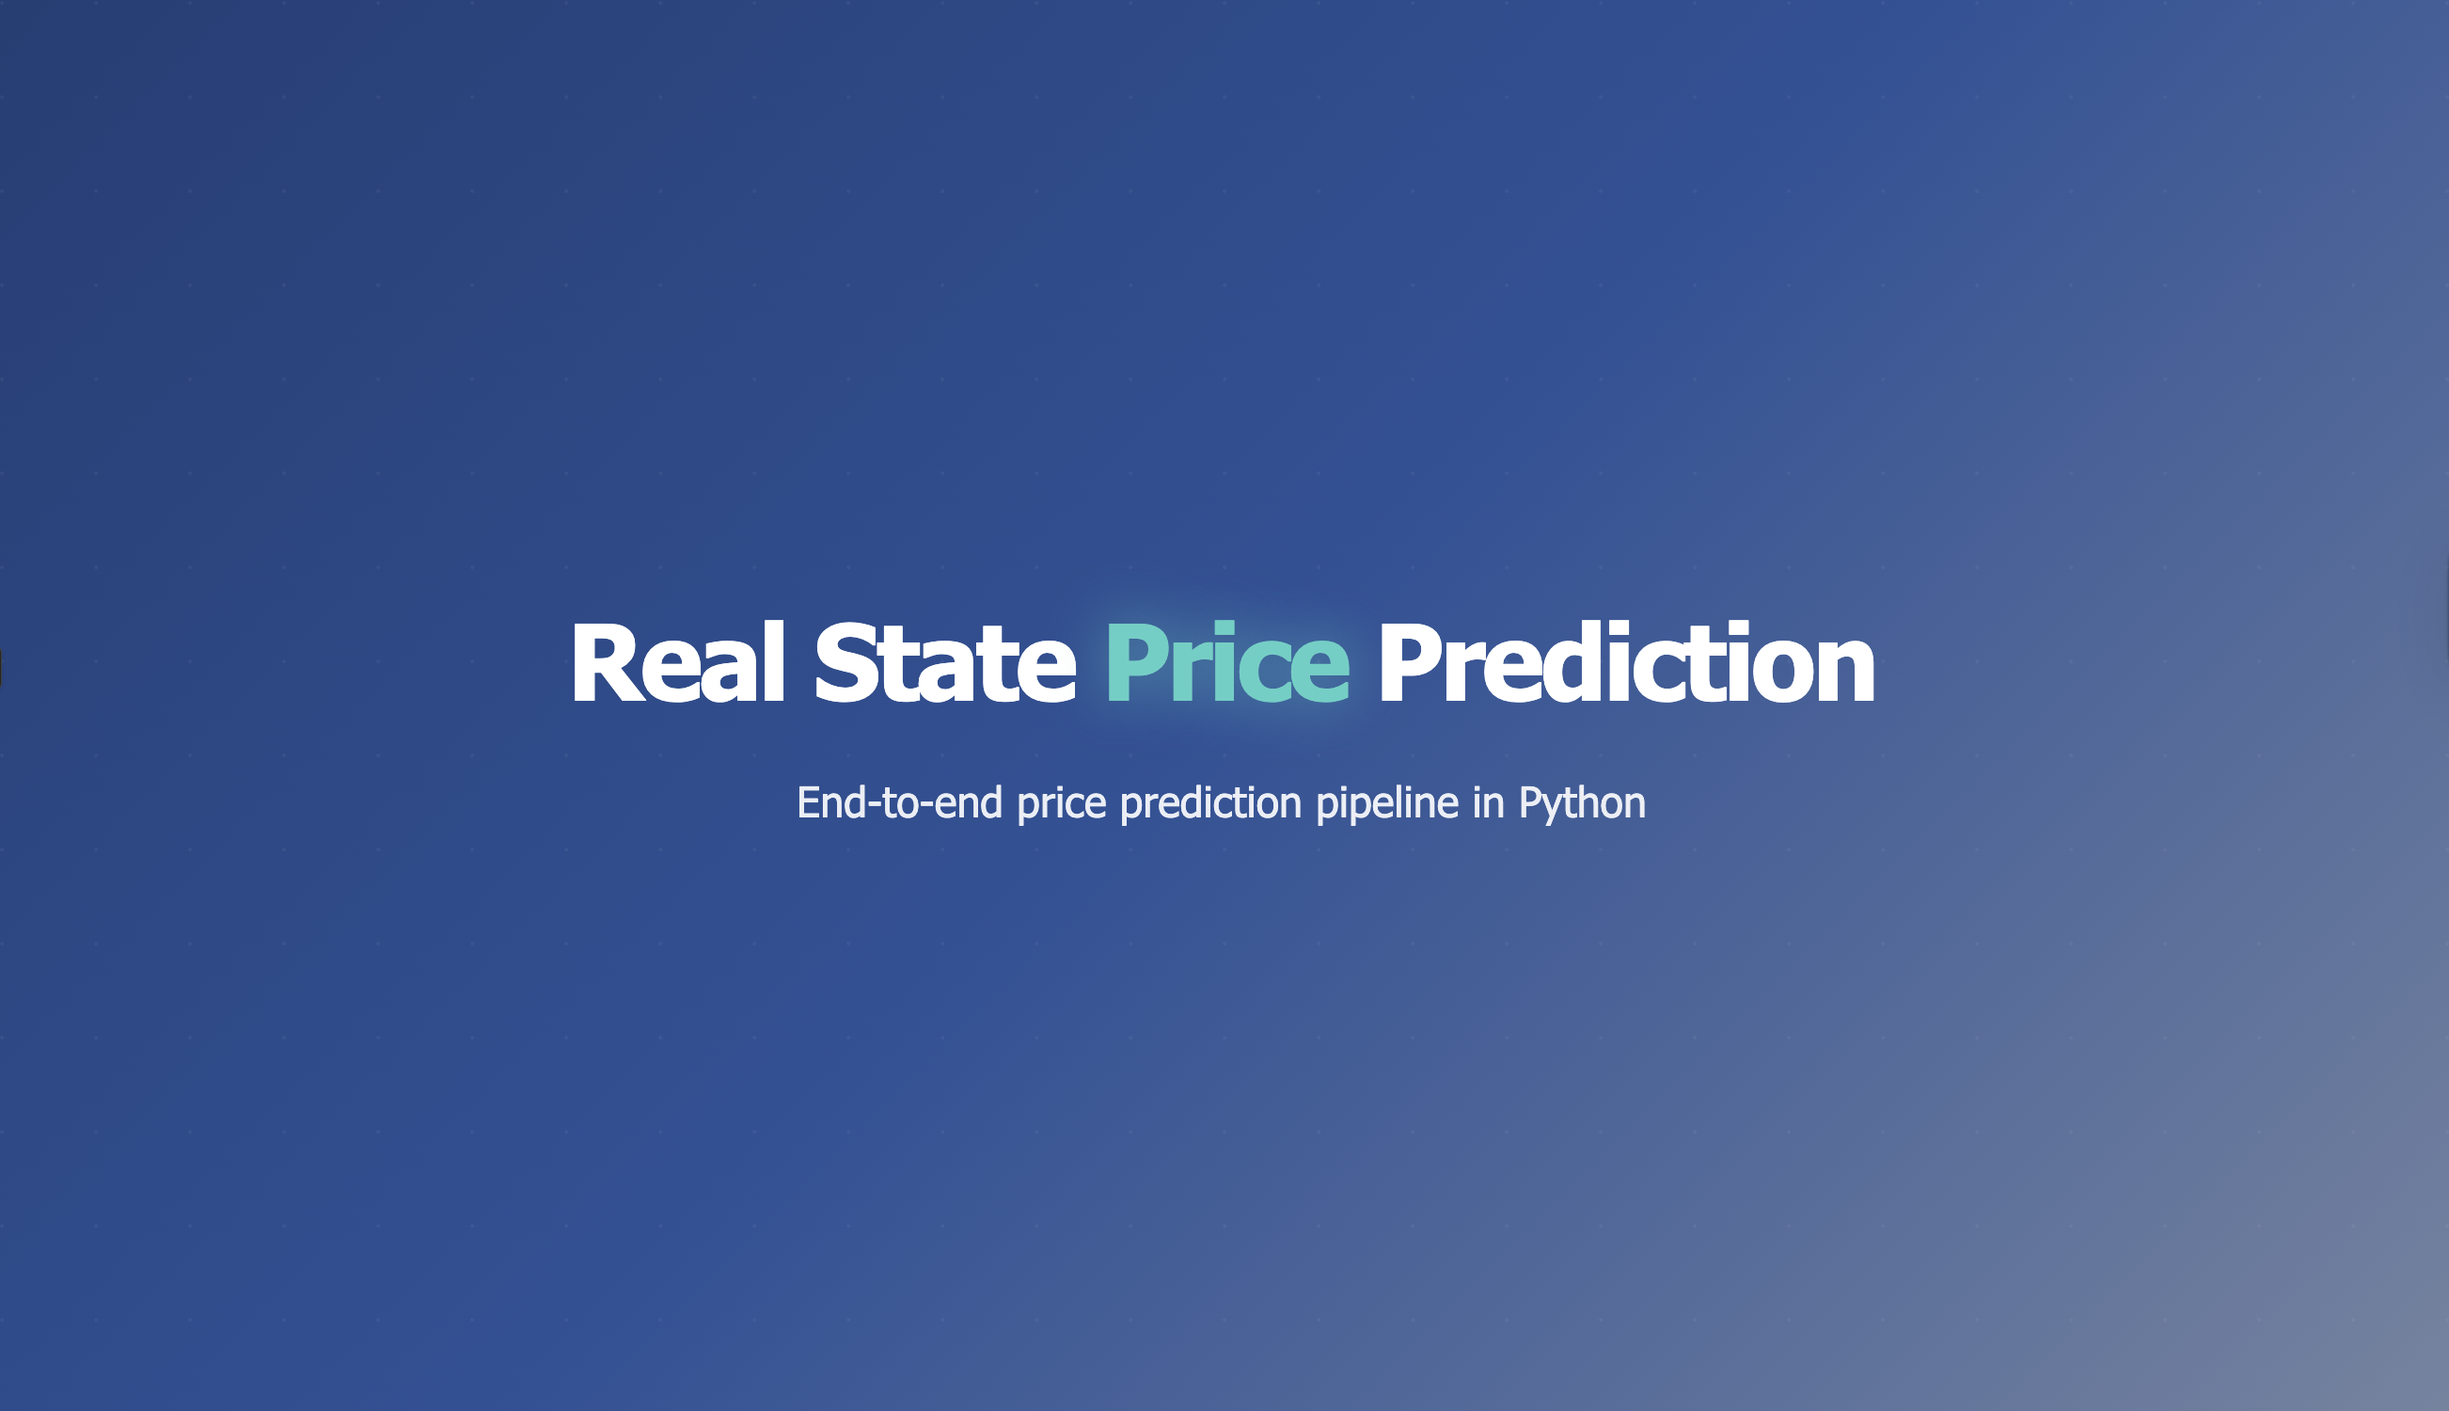
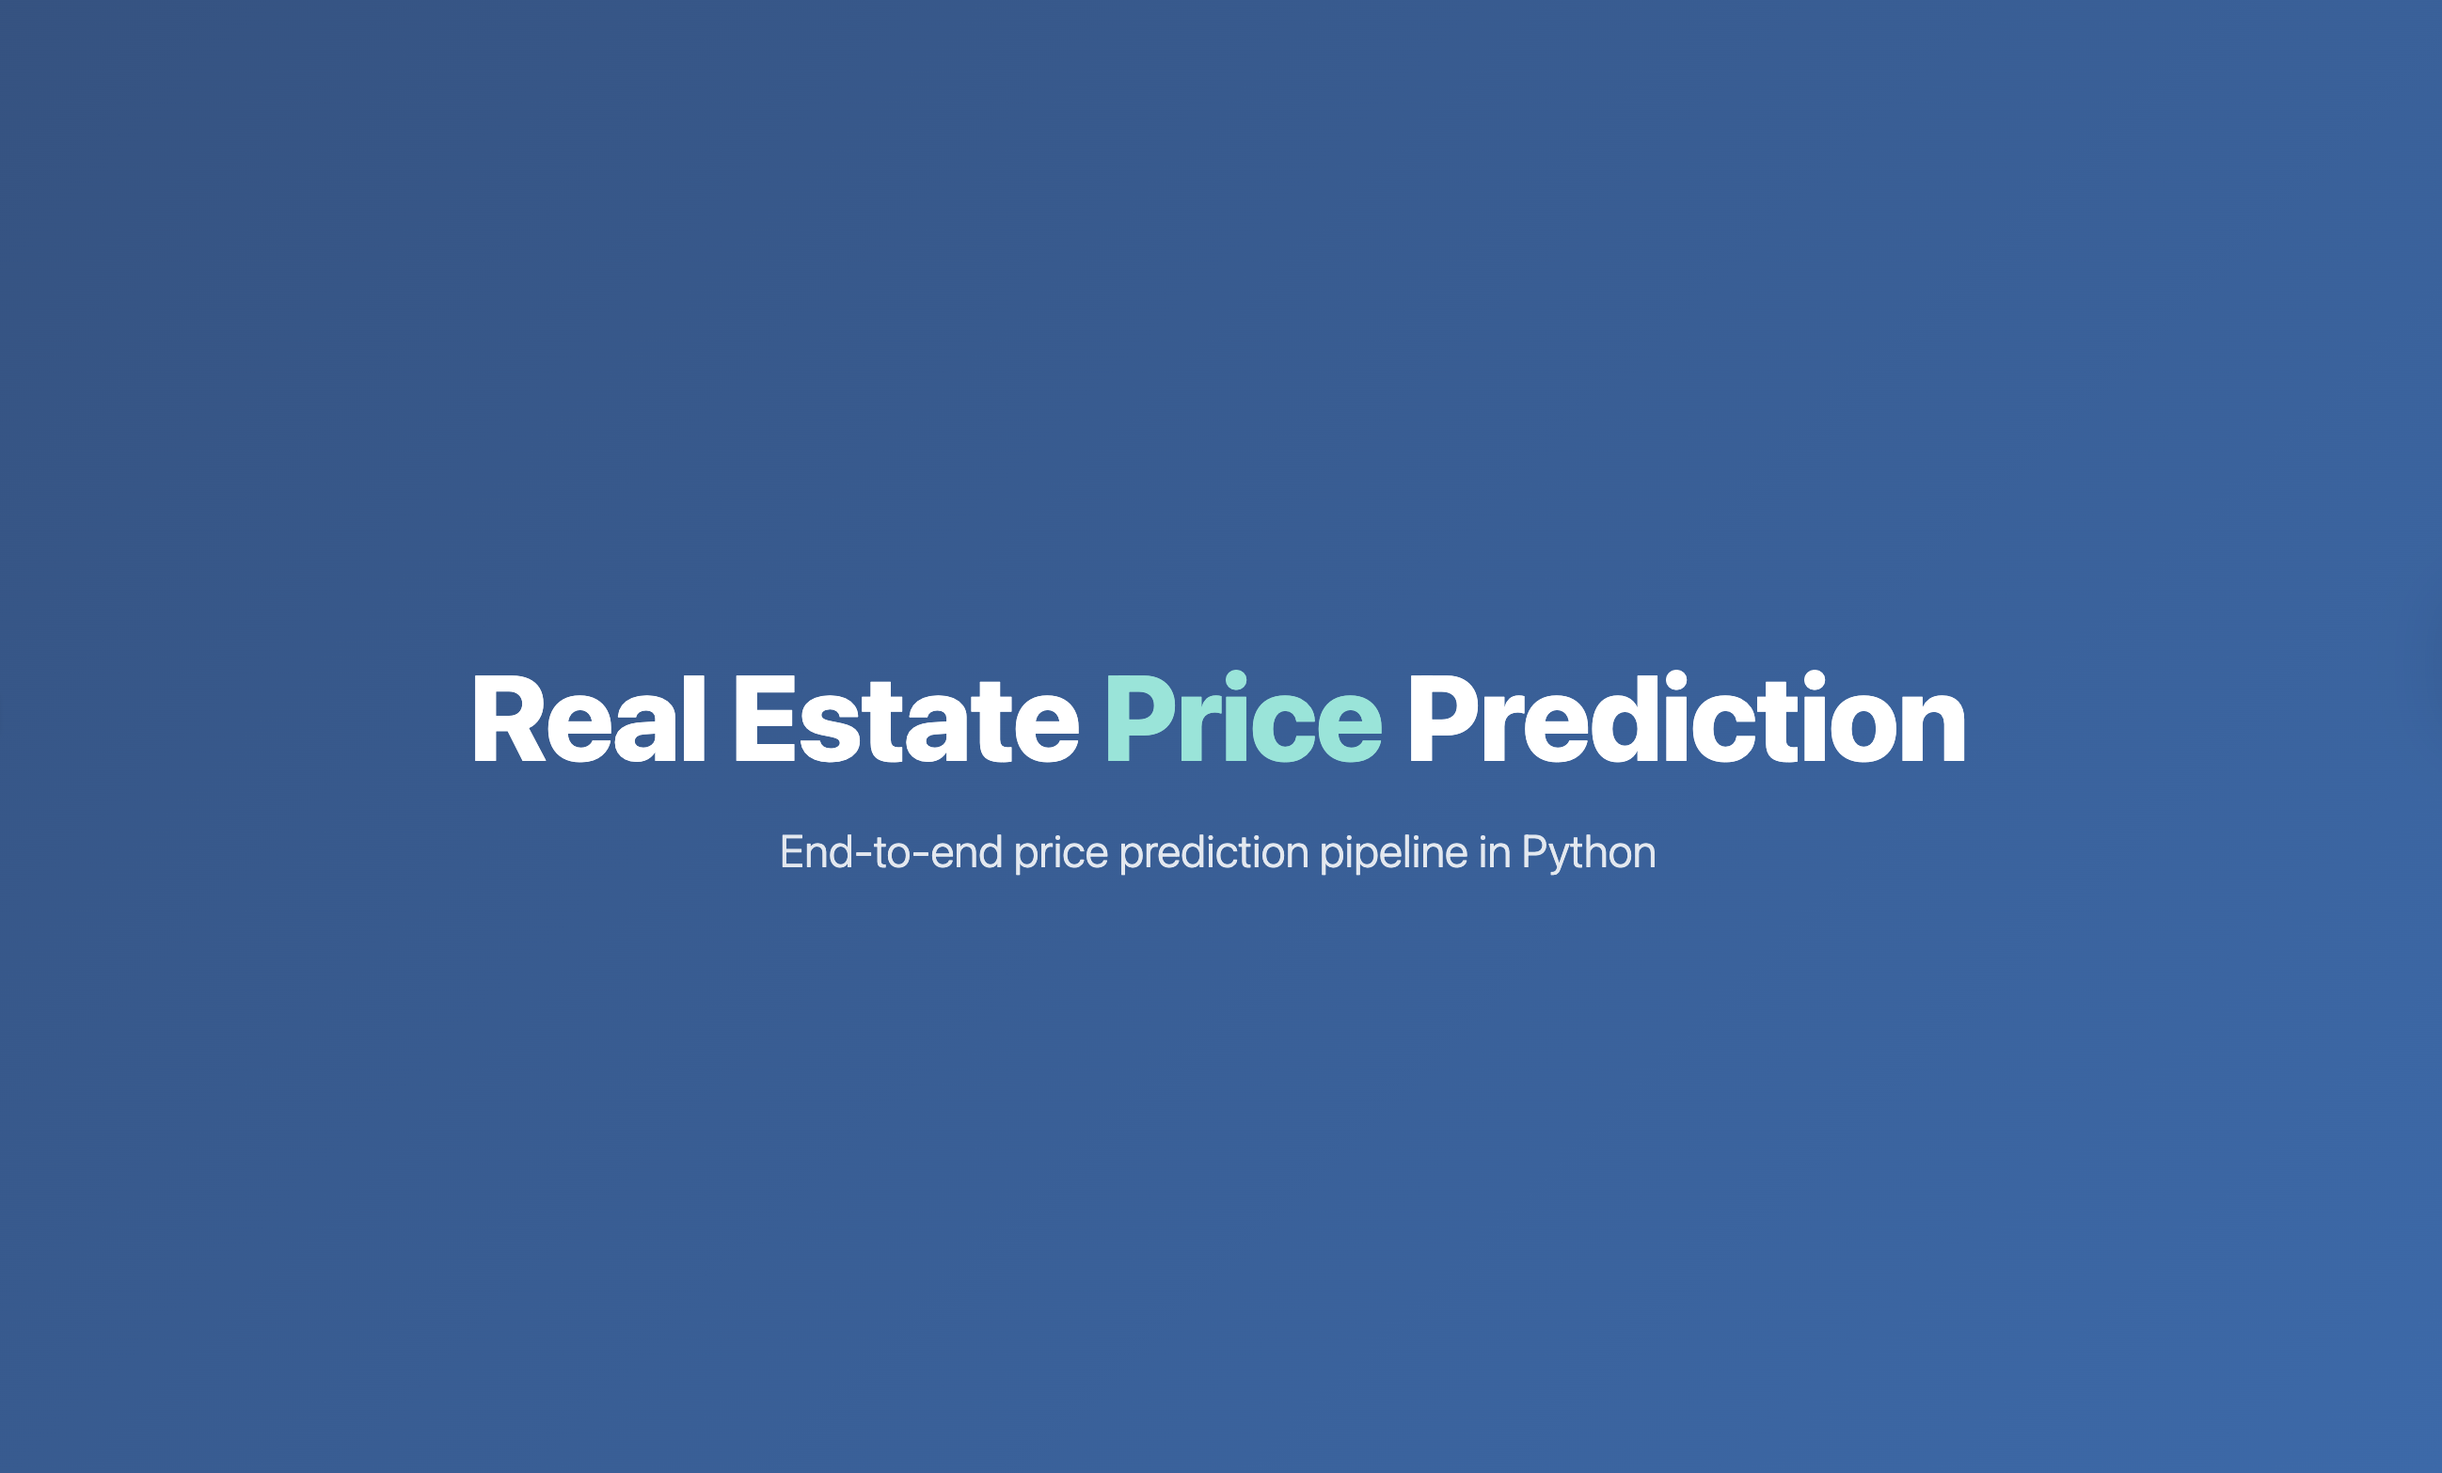
Updating real estate project

Changed region(s): [[0.5928, 0.276, 1.0, 1.0], [0.1872, 0.4293, 0.8112, 0.5213], [0.312, 0.552, 0.6864, 0.6133]]

diff --git a/src/index.html b/src/index.html
@@ -215,7 +215,7 @@
           <div class="row">
             <div class="col-lg-4 col-sm-12">
               <div class="project-wrapper__text">
-                <h3 class="project-wrapper__text-title">Real State Price Prediction</h3>
+                <h3 class="project-wrapper__text-title">Real EState Price Prediction</h3>
                 <div>
                   <p class="mb-4">
                     Built an end-to-end pricing pipeline in Python (pandas, scikit-learn) using feature engineering 
